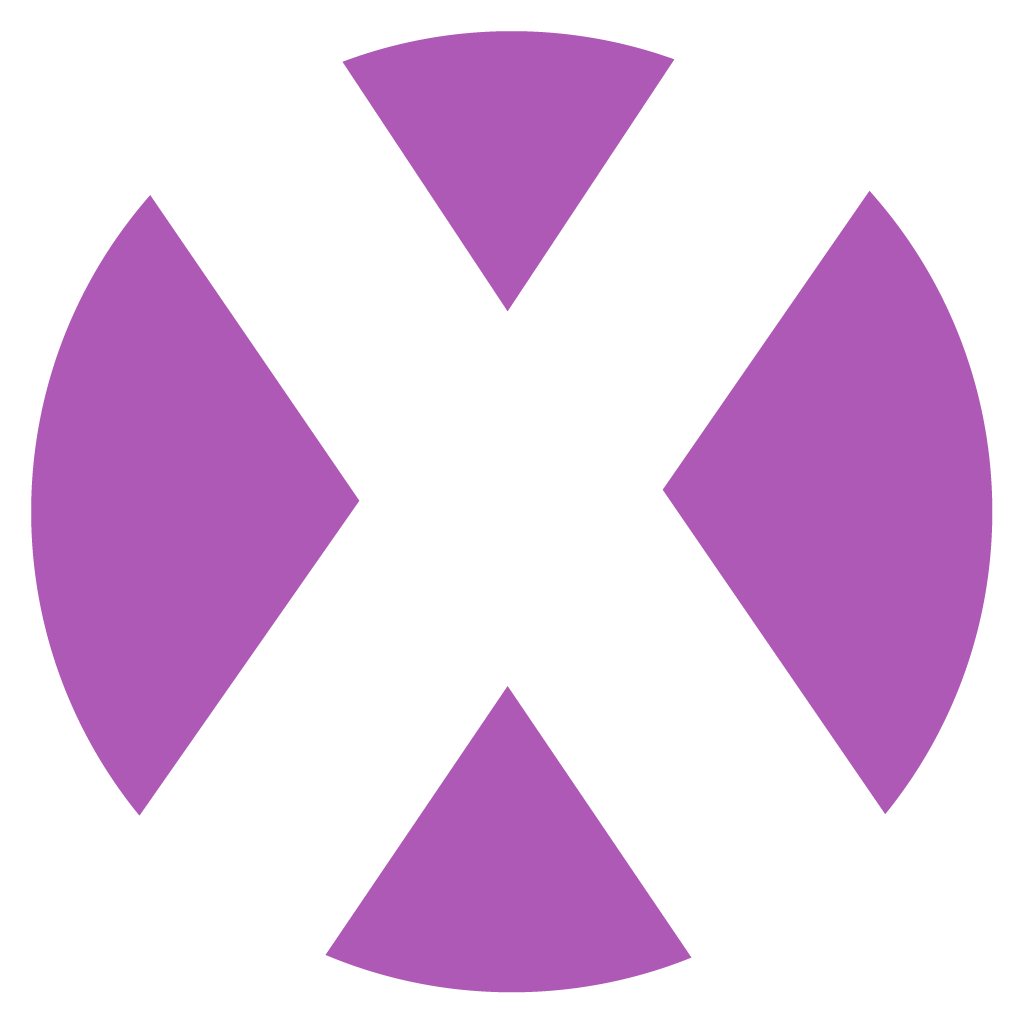
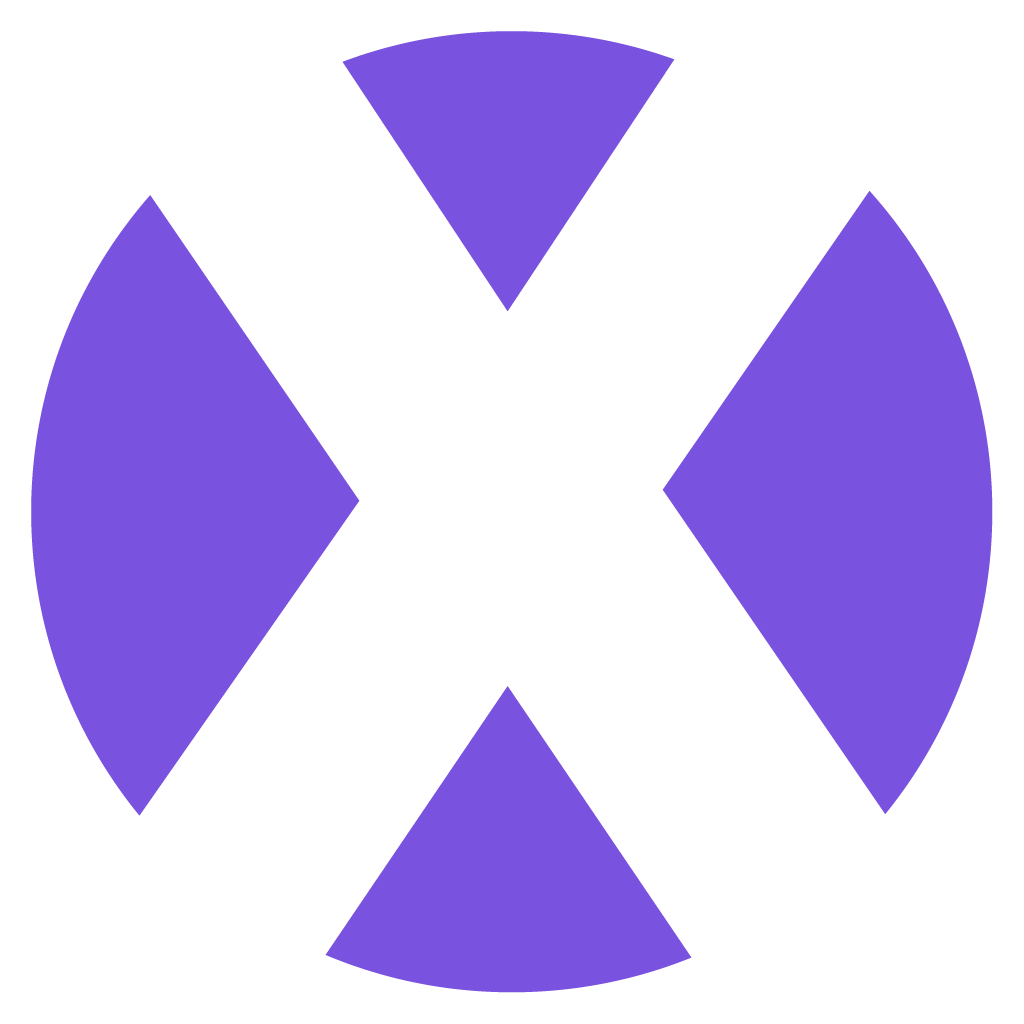
Frontend work on homepage, polish on dash

diff --git a/client/src/pages/HomePage.jsx b/client/src/pages/HomePage.jsx
@@ -1,16 +1,73 @@
 import React from 'react';
+import API from '../utils/API';
+
+const logo = require('../images/hodo.png');
+
+const houseIcons = {
+  Gestalt: require('../images/Gestalt.png'),
+  Heuristics: require('../images/Heuristics.png'),
+  Context: require('../images/Context.png')
+}
 
 class HomePage extends React.Component {
+
+  state = {
+    data: [],
+    places: [
+      'st',
+      'nd',
+      'rd'
+    ]
+  }
+
+  // Fetch house points and sort by point value
+  getData = () => {
+    API.dashboard()
+      .then(res => {
+        const data = res.data.sort((a, b) => {
+          if (a.points > b.points)
+            return -1;
+          if (a.points < b.points)
+            return 1;
+          return 0;
+        });
+        this.setState({
+          data: data
+        });
+      });
+  }
 
   componentDidMount() {
     // Update authenticated state on logout
     this.props.toggleAuthenticateStatus();
+
+    // Get the house points
+    this.getData();
   }
 
   render() {
     return (
-      <div>
-        <p>Homepage</p>
+      <div className='stage'>
+
+        <header className='stage-row'>
+          <img className='header-logo' src={logo} alt='Houses of Design Olympics' width='450px' />
+          <aside className='infobox'>
+
+          </aside>
+        </header>
+
+        <main className='stage-row stage-row-houseCards'>
+          {this.state.data.map((item, i) => (
+            <section className='houseCard' key={i} style={{ border: `3px solid #${item.hex}` }}>
+              <img className='houseCard-icon' src={houseIcons[item.house]} height='70px' alt={`House of ${item.house}`} />
+              <h1 className='houseCard-spot'>{i+1}<sup>{this.state.places[i]}</sup> Place</h1>
+              <h2 className='houseCard-name'>House of {item.house}</h2>
+              <h3 className='houseCard-score'>{item.points}</h3>
+              <h4 className='houseCard-weekscore'>{item.weekpoints} this week</h4>
+            </section>
+          ))}
+        </main>
+
       </div>
     );
   }

diff --git a/client/public/style.css b/client/public/style.css
@@ -1,6 +1,11 @@
+/* Globals */
+/* -------------------------------- */
 body {
   font-family: 'Lato', sans-serif!important;
 }
+
+/* Admin page */
+/* -------------------------------- */
 div.admin-logo {
   margin-top: 20px;
 }
@@ -11,6 +16,76 @@ div.admin-nav-right {
   margin-top: 10px;
   text-align: right;
 }
+img.admin-houseimg {
+  margin-bottom: 20px;
+}
+
+/* Homepage */
+/* -------------------------------- */
+div.stage {
+  margin: 0 auto;
+  width: 80%;
+}
+.stage-row {
+  margin-top: 50px;
+  display: flex;
+  flex-wrap: wrap;
+  -ms-flex-wrap: wrap;
+}
+header.stage-row {
+  margin-top: 0px;
+  position: absolute;
+  top: -12px;
+}
+
+main.stage-row-houseCards {
+  justify-content: center;
+  align-items: center;
+  margin-top: 150px;
+}
+
+section.houseCard {
+  height: 320px;
+  width: 260px;
+  border: 3px solid #000;
+  border-radius: 25px;
+  display: flex;
+  flex-direction: column;
+  -ms-flex-direction: column;
+  justify-content: center;
+  align-items: center;
+  margin-right: 4%;
+}
+section.houseCard:last-child {
+  margin-right: 0;
+}
+img.houseCard-icon {
+  margin-bottom: 15px;
+}
+h1.houseCard-spot {
+  font-weight: 400;
+  font-size: 25px;
+  margin: 0;
+
+}
+h2.houseCard-name {
+  font-weight: 300;
+  font-size: 25px;
+  margin: 0;
+}
+h3.houseCard-score {
+  font-weight: 700;
+  font-size: 75px;
+  margin: 0;
+}
+h4.houseCard-weekscore {
+  font-weight: 400;
+  font-size: 17px;
+  margin: 0;
+}
+
+/* Modifiers */
+/* -------------------------------- */
 div.mt-10p {
   margin-top: 10%;
 }
@@ -18,6 +93,20 @@ div.mt-20p {
   margin-top: 20%;
 }
 
+/* Responsive for homepage */
+@media only screen and (max-width: 1070px) {
+  div.stage {
+    width: 95%;
+  }
+  section.houseCard {
+    height: 320px;
+    width: 80%;
+    margin-right: 0;
+    margin-bottom: 20px;
+  }
+}
+
+/* Responsive for admin page */
 @media only screen and (max-width: 991px) {
   div.admin-nav {
     flex-direction: column;

diff --git a/client/src/pages/DashboardPage.jsx b/client/src/pages/DashboardPage.jsx
@@ -5,6 +5,12 @@ import { Link } from 'react-router-dom';
 
 const logo = require('../images/hodo.png');
 
+const houseIcons = {
+  Gestalt: require('../images/Gestalt.png'),
+  Heuristics: require('../images/Heuristics.png'),
+  Context: require('../images/Context.png')
+}
+
 class DashboardPage extends React.Component {
   state = {
     data: [],
@@ -81,7 +87,7 @@ class DashboardPage extends React.Component {
 
               <div className='card'>
                 <div className='card-body text-center'>
-                  {/* <p><img className='houseImage' height='200' src={item.owl ? `img/${item.owlimage}` : `img/${item.image}`} alt={item.house} /></p> */}
+                  <img className='admin-houseimg' height='85' src={houseIcons[item.house]} alt={item.house} />
                   <h5>House of {item.house}</h5>
                   <h6 className='mb-2 text-muted'>House TA: {item.head}</h6>
                   <h1><strong>{item.points}</strong></h1>
@@ -102,7 +108,7 @@ class DashboardPage extends React.Component {
 
                   <hr />
 
-                  <button type='button' onClick={() => this.handleOwl(item.house)} className={item.owl ? 'btn btn-secondary btn-lg btn-block' : 'btn btn-primary btn-lg btn-block'}>{item.owl ? 'Has the owl' : 'Give the owl'}</button>
+                  <button type='button' onClick={() => this.handleOwl(item.house)} className={item.owl ? 'btn btn-secondary btn-lg btn-block' : 'btn btn-primary btn-lg btn-block'}>{item.owl ? 'Has The Owl' : 'Give The Owl'}</button>
                 </div>
               </div>
 

diff --git a/seed.js b/seed.js
@@ -20,7 +20,8 @@ const houseSeed = [
     'points': 0,
     'weekpoints': 0,
     'owl': false,
-    'image': 'gestalt.png'
+    'image': 'gestalt.png',
+    'hex': 'D54D49'
   },
   {
     'house': 'Context',
@@ -28,7 +29,8 @@ const houseSeed = [
     'points': 0,
     'weekpoints': 0,
     'owl': false,
-    'image': 'context.png'
+    'image': 'context.png',
+    'hex': '7A52E0'
   },
   {
     'house': 'Heuristics',
@@ -36,7 +38,8 @@ const houseSeed = [
     'points': 0,
     'weekpoints': 0,
     'owl': false,
-    'image': 'heuristics.png'
+    'image': 'heuristics.png',
+    'hex': '009478'
   }
 ];
 

diff --git a/client/public/index.html b/client/public/index.html
@@ -10,7 +10,7 @@
 
     <title>Houses of Design Olympics</title>
 
-    <link href="https://fonts.googleapis.com/css?family=Lato:400,700&display=swap" rel="stylesheet">
+    <link href="https://fonts.googleapis.com/css?family=Lato:300,400,700&display=swap" rel="stylesheet">
     <link rel="stylesheet" href="https://stackpath.bootstrapcdn.com/bootstrap/4.3.1/css/bootstrap.min.css" integrity="sha384-ggOyR0iXCbMQv3Xipma34MD+dH/1fQ784/j6cY/iJTQUOhcWr7x9JvoRxT2MZw1T" crossorigin="anonymous">
     <link rel="stylesheet" href="%PUBLIC_URL%/style.css">
 

diff --git a/server/models/house.js b/server/models/house.js
@@ -11,7 +11,8 @@ const HouseSchema = new Schema({
   points: Number,
   weekpoints: Number,
   owl: Boolean,
-  image: String
+  image: String,
+  hex: String
 });
 
 module.exports = mongoose.model('House', HouseSchema);
